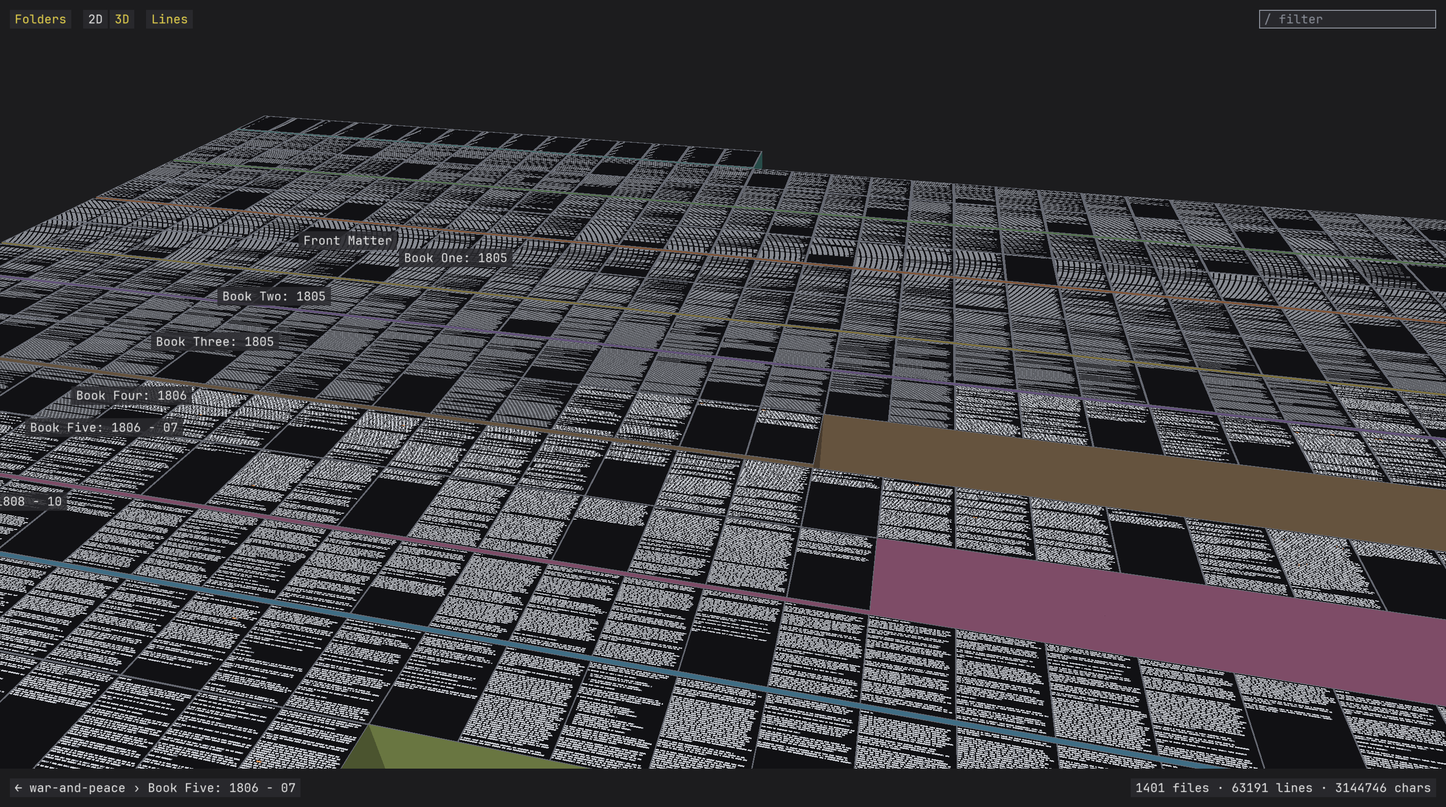
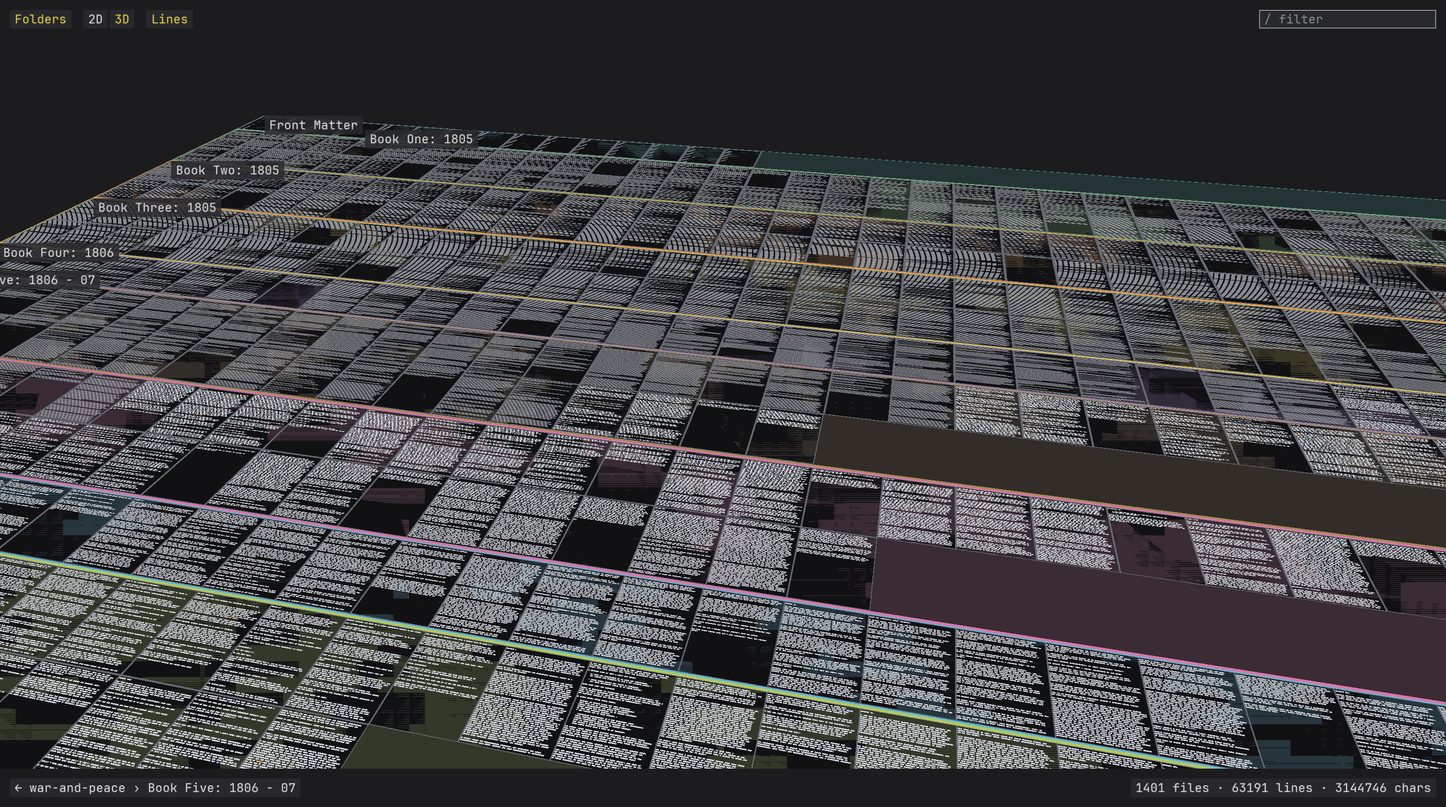
A book has no heights in 3D: the tilted view is the flat sheet
compute_heights sets every page and part of a book to zero, so 3D is the sheet in perspective, no page or Book extruded; code keeps its skyline and terraces. The hero is re-rendered and the captions say sheet and bands instead of terraces.

diff --git a/atlas_viewer.py b/atlas_viewer.py
@@ -1010,18 +1010,21 @@ class Viewer:
         """z base and height per file and directory from the current layout's
         metric: directories are terraces of DIR_STEP per level, files sit on
         their directory's terrace with a height of H_MAX * sqrt(metric /
-        max). A book's pages are all H_MAX: a page is a page, whatever it
-        holds."""
+        max). A book has no heights at all: its 3D view is the flat sheet
+        tilted, no page or part extruded."""
         a = self.a
         depth = a["dir_depth"].astype(np.float64)
-        self.dir_z0 = np.maximum(depth - 1, 0) * DIR_STEP
-        self.dir_h = np.where(depth >= 1, DIR_STEP, 0.0)
+        flat = a["index"].get("corpus") == "book"     # a book is one flat sheet: nothing rises
+        self.dir_z0 = np.maximum(depth - 1, 0) * (0.0 if flat else DIR_STEP)
+        self.dir_h = np.where(depth >= 1, 0.0 if flat else DIR_STEP, 0.0)
         top = self.dir_z0 + self.dir_h
         m = a.get("file_metric")
-        if m is None or a["index"].get("corpus") == "book":   # a book: every page one height
+        if m is None:
             m = np.ones(self.n_files)
         m = np.asarray(m, np.float64)
         self.file_h = H_MAX * np.sqrt(np.maximum(m, 0) / max(float(m.max()), 1e-9))
+        if flat:
+            self.file_h[:] = 0.0
         self.file_z0 = top[a["file_dir"]]
         self.file_top = self.file_z0 + self.file_h
 

diff --git a/docs/DESIGN.md b/docs/DESIGN.md
@@ -490,7 +490,7 @@ Decision 1 above put books later; this is the later. The README's adapter split 
 
 `book_index.py` reads a Project Gutenberg plain text (`--gutenberg N` fetches `https://www.gutenberg.org/cache/epub/N/pgN.txt` into `data/gutenberg/` once) and writes the same `index.npz` + `index.json` as `atlas_index.py`, through a `write_index` function factored out of stage 1 (its output for a source tree is byte-identical to before). The hierarchy is parts over chapters over pages: a heading at column 0 such as `BOOK ONE: 1805`, `PART I` or `FIRST EPILOGUE: 1813 - 20` opens a part, `CHAPTER I` a chapter, and every `--page-lines` (52) lines of a chapter are one page, numbered through the book (`Book One: 1805/Chapter I/p. 17`); a page never starts with a blank line, runs of blank lines are squeezed to one, a chapter ends its last page early. The contents listing indents its copies of every heading, which is what keeps it out of the structure. The parts are the directories (18 with the front matter) and the pages the files; chapters are in the page paths only, so the layout is a grid of pages per part, as printed, and the hover label carries the chapter. Gutenberg's header and footer, outside the `*** START` and `*** END` lines, are dropped. A text with no heading at all is one part named after the corpus, its pages `name/p. N`, so any plain text file is a book. Text is kept on Gutenberg's own line breaks (72 columns, 85 at most) and normalised to ASCII: curly quotes straight, the em dash `--`, accents stripped by NFKD decomposition (Natásha to Natasha), the rest `?`; the whole book fits Windows-1252, so one byte per character would hold the accents once the glyph tiers cover more than 32 to 126 (README, open question 2). A `prose` tokenizer spec gives words the ident kind and numbers the number kind, with no string literals (a line of dialogue is not a string) and no items. War and Peace: 18 parts, 366 chapters, 1,401 pages, 63,191 lines, 3.14 M characters, 2.63 M glyphs, 0.46 s; Dobbie's reflowed pages numbered 1,273.
 
-`atlas_layout.py` reads `"corpus": "book"` and `"page_lines"` from the index and skips the treemap: `book_layout` makes every part a full-width band of whole page rows stacked in reading order, every page one cell of one size, rows filled left to right, a part's last row short. The column count is the one that brings a cell closest to the page aspect (the book's 99.5th-percentile line width times the character aspect, over the page's lines plus two) from the wide side, so a page's single column always holds its lines: 65 across for War and Peace, 16 wrapped rows in the whole book (the few lines past 73 columns). `layout_files` takes a `page` argument that pitches every file as a full page aimed at the book's line width, so a short last page keeps its chapter's text size and no page splits into columns. A book gets the lines layout only: no resolver, no history, every page is one cell whatever the metric. In 3D the viewer gives every page of a book the same height (`compute_heights` ignores the metric when the index says `"corpus": "book"`): the height of a code file is the square root of its metric, which made the book a city of near-equal blocks under tokens and a plateau with dips at chapter ends under lines, and a page is a page whatever it holds. The strip treemap (Bederson et al.) was tried first with chapters as directories and rejected: pages came out at every size and shape, which is the code map's look, not a book's. The empty end of each band is the price of parts as rectangles; letting a part start mid-row would make it a non-rectangle, which nothing in the viewer draws.
+`atlas_layout.py` reads `"corpus": "book"` and `"page_lines"` from the index and skips the treemap: `book_layout` makes every part a full-width band of whole page rows stacked in reading order, every page one cell of one size, rows filled left to right, a part's last row short. The column count is the one that brings a cell closest to the page aspect (the book's 99.5th-percentile line width times the character aspect, over the page's lines plus two) from the wide side, so a page's single column always holds its lines: 65 across for War and Peace, 16 wrapped rows in the whole book (the few lines past 73 columns). `layout_files` takes a `page` argument that pitches every file as a full page aimed at the book's line width, so a short last page keeps its chapter's text size and no page splits into columns. A book gets the lines layout only: no resolver, no history, every page is one cell whatever the metric. In 3D a book has no heights at all: `compute_heights` sets every page and part to zero when the index says `"corpus": "book"`, so the tilted view is the flat sheet in perspective. The code rule, a file's height as the square root of its metric and a terrace per directory level, made the book a city of near-equal blocks under tokens and a plateau with dips at chapter ends under lines, and equal heights still left the Books as terraces; a book is one sheet. The strip treemap (Bederson et al.) was tried first with chapters as directories and rejected: pages came out at every size and shape, which is the code map's look, not a book's. The empty end of each band is the price of parts as rectangles; letting a part start mid-row would make it a non-rectangle, which nothing in the viewer draws.
 
 The viewer needed one fix: `--goto` split its argument at the first colon, and a book's paths hold colons (`Book One: 1805/...`); it now splits at the last colon and only when a line number follows. `--shots` runs its first seven images on a book and stops where the resolver and history would start. The frame loop measured 2.7 ms mean over the scripted zoom (9.1 MB on the GPU). Screenshots and their commands are in `docs/shots/README.md`, the hero (3D at 3 px per line about page 481) is the README's second image.
 

diff --git a/README.md b/README.md
@@ -6,9 +6,9 @@ big-text is the text-scale sibling of [big-picture](https://github.com/erik-lars
 
 *big-text viewing itself: 33 files and about 9,500 lines tilted into 3D with the churn lens, the most edited files ember, every roof carrying its code at the rung its size allows, and the rail along the bottom the repository's commits.*
 
-![War and Peace in 3D at 3 pixels per line: the near pages as text, the far rows as line bars, the Books as coloured terraces](docs/shots/war-and-peace/hero.png)
+![War and Peace tilted at 3 pixels per line: one flat sheet of pages, the near ones as text, the far rows as line bars, the Books as coloured bands](docs/shots/war-and-peace/hero.png)
 
-*The same viewer on War and Peace, Dobbie's example: 1,401 pages and 2.63 million glyphs as one surface, the Books as terraces, the near pages at the text rung and the far rows at bars in the same frame.*
+*The same viewer on War and Peace, Dobbie's example: 1,401 pages and 2.63 million glyphs as one flat sheet, tilted, the near pages at the text rung and the far rows at bars in the same frame, the Books as bands.*
 
 It shows three kinds of content, in this order of priority: text, images, 2D vector work. Each has an open-source lineage, and the ladder that ties them together has a fourth:
 
@@ -127,8 +127,8 @@ Dobbie's example, War and Peace, needs nothing beyond the install: no submodule,
 ```
 
 1. `book_index.py` fetches Project Gutenberg ebook 2600 (3.4 MB) into `data/gutenberg/pg2600.txt` on the first run and reads it from there after, drops Gutenberg's header and footer, and splits the text on its headings: `BOOK ONE: 1805` and the two epilogues open a part, `CHAPTER I` a chapter, every 52 lines of a chapter are a page. It writes `data/war-and-peace_atlas/index.npz` and `index.json`, the same index a source tree gets, with parts as directories and pages as files named `Book One: 1805/Chapter I/p. 17`, and prints the counts: 18 parts, 366 chapters, 1,401 pages, 2.63 million glyphs, half a second.
-2. `atlas_layout.py` sees `"corpus": "book"` in the index and lays the pages out in reading order instead of a treemap: every part a full-width band of whole page rows, every page one cell, 65 pages across, and writes `layout.npz`, with lines as the book's one metric; in 3D every page stands at the same height whatever it holds, a page being a page. Add `--preview docs/shots/war-and-peace_layout.png` to render the result with Pillow without opening a window.
-3. `atlas_viewer.py` opens the book fitted to the window. Everything in Controls works except what needs a resolver or a history: `/` filters (`Natasha` finds 1,213 mentions on 299 pages), Enter flies to the next hit, `3` tilts the book into 3D, hover names the part, chapter and page under the cursor. There is no Inspector, no colour lens and no revision rail, since a book has no definitions and no commits.
+2. `atlas_layout.py` sees `"corpus": "book"` in the index and lays the pages out in reading order instead of a treemap: every part a full-width band of whole page rows, every page one cell, 65 pages across, and writes `layout.npz`, with lines as the book's one metric; in 3D a book is one flat sheet, nothing extruded, the tilt just a way of looking at it. Add `--preview docs/shots/war-and-peace_layout.png` to render the result with Pillow without opening a window.
+3. `atlas_viewer.py` opens the book fitted to the window. Everything in Controls works except what needs a resolver or a history: `/` filters (`Natasha` finds 1,213 mentions on 299 pages), Enter flies to the next hit, `3` tilts the sheet (a book has no heights in 3D), hover names the part, chapter and page under the cursor. There is no Inspector, no colour lens and no revision rail, since a book has no definitions and no commits.
 
 The README's second image is the viewer scripted from the shell, and the opening pages are one flag away:
 

diff --git a/docs/shots/README.md b/docs/shots/README.md
@@ -43,7 +43,7 @@ Regenerate everything with:
 
 - `big-text/hero.png`: big-text's own source fitted in 3D at tilt 55 and yaw 12 with the churn lens on and the revision rail shown: the most edited files ember, the roofs at the rungs their sizes allow.
 - `makepad-draw/hero.png`: the same on makepad-draw at 2.2 px per line about `platform/src/window.rs`: the near roofs at the tokens and text rungs, the far ones at bars.
-- `war-and-peace/hero.png`: War and Peace in 3D at tilt 55 and yaw 12, 3 px per line about page 481 (Book Five): the near pages at the text rung, the far rows at bars, every page at one height, the Books as terraces with their labels stacked along the left edge. The README's second image.
+- `war-and-peace/hero.png`: War and Peace in 3D at tilt 55 and yaw 12, 3 px per line about page 481 (Book Five): one flat sheet in perspective (a book has no heights), the near pages at the text rung, the far rows at bars, the Books as bands with their labels stacked along the left edge. The README's second image.
 
 ## Layout previews
 
